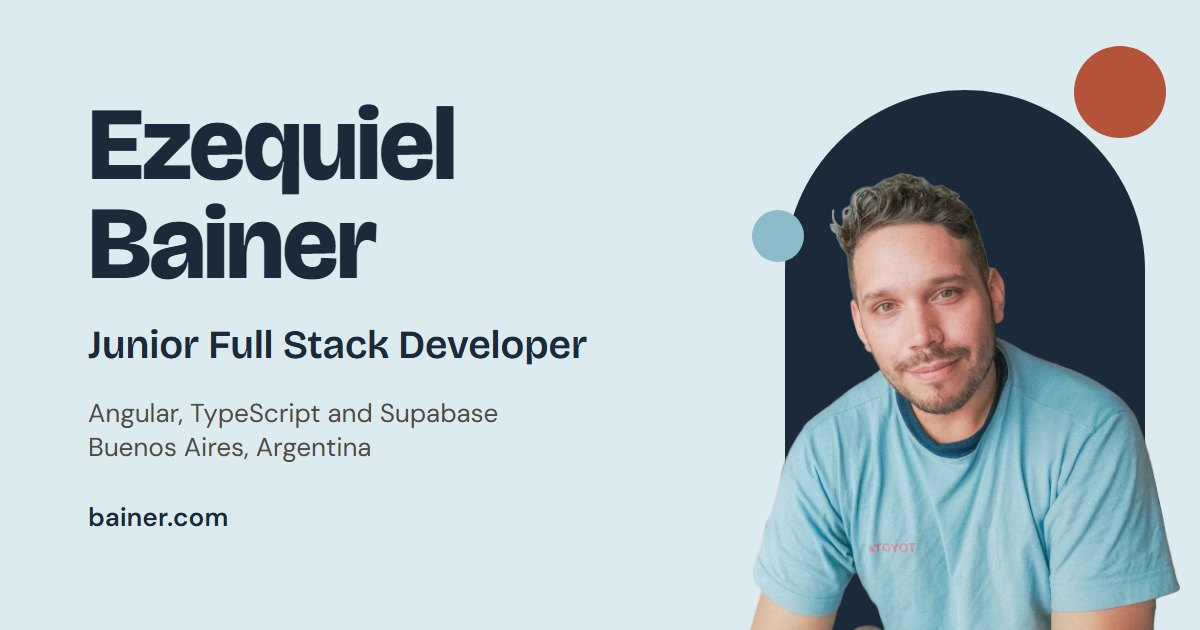
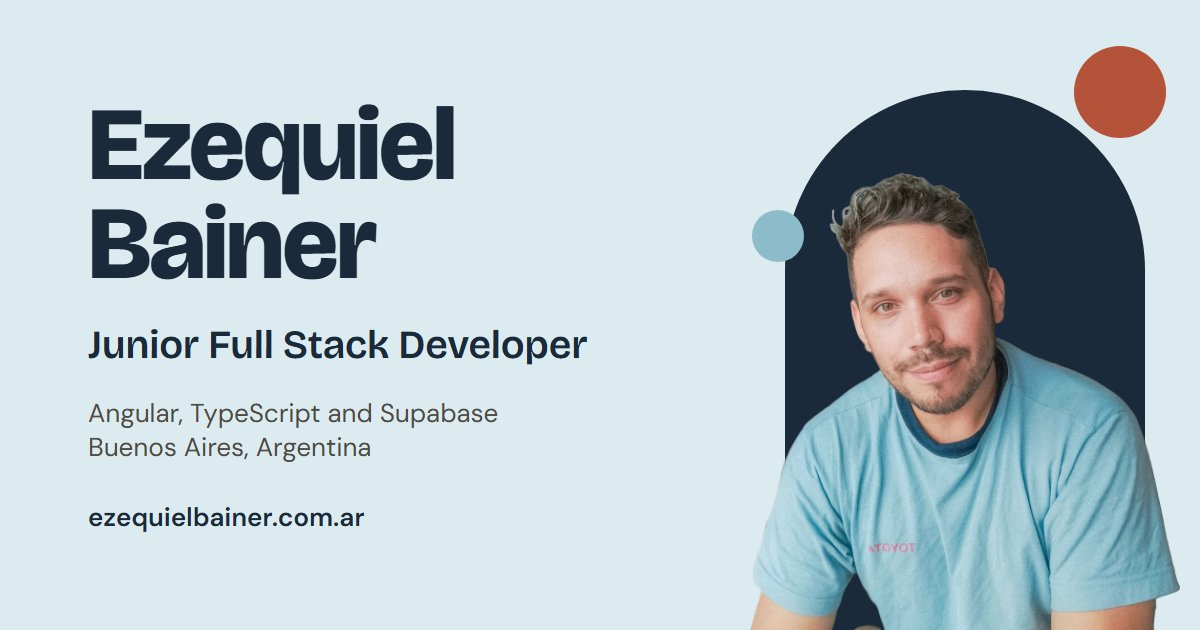
chore: cambia el dominio a ezequielbainer.com.ar

Changed region(s): [[0.0617, 0.8143, 0.3083, 0.8444], [0.37, 0.5429, 0.4933, 0.573], [0.2467, 0.5429, 0.2775, 0.573]]

diff --git a/src/styles/tokens.css b/src/styles/tokens.css
@@ -1,5 +1,5 @@
 /*
-  Design tokens: "Celeste cercano" (bainer.com, versión para reclutadores)
+  Design tokens: "Celeste cercano" (ezequielbainer.com.ar, versión para reclutadores)
   La paleta sale de la foto de Ezequiel: celeste de la remera, navy del cuello, terracota de la luz.
   Usar SIEMPRE estas variables. Si un valor nuevo se repite, se agrega acá.
 

diff --git a/src/app/core/links.ts b/src/app/core/links.ts
@@ -2,7 +2,7 @@
  * URLs que no cambian con el idioma. Viven en un solo lugar para que
  * el español y el inglés no puedan apuntar a links distintos.
  */
-export const SITE_URL = 'https://bainer.com';
+export const SITE_URL = 'https://ezequielbainer.com.ar';
 
 export const PROFILE = {
   github: 'https://github.com/NEBainer',
